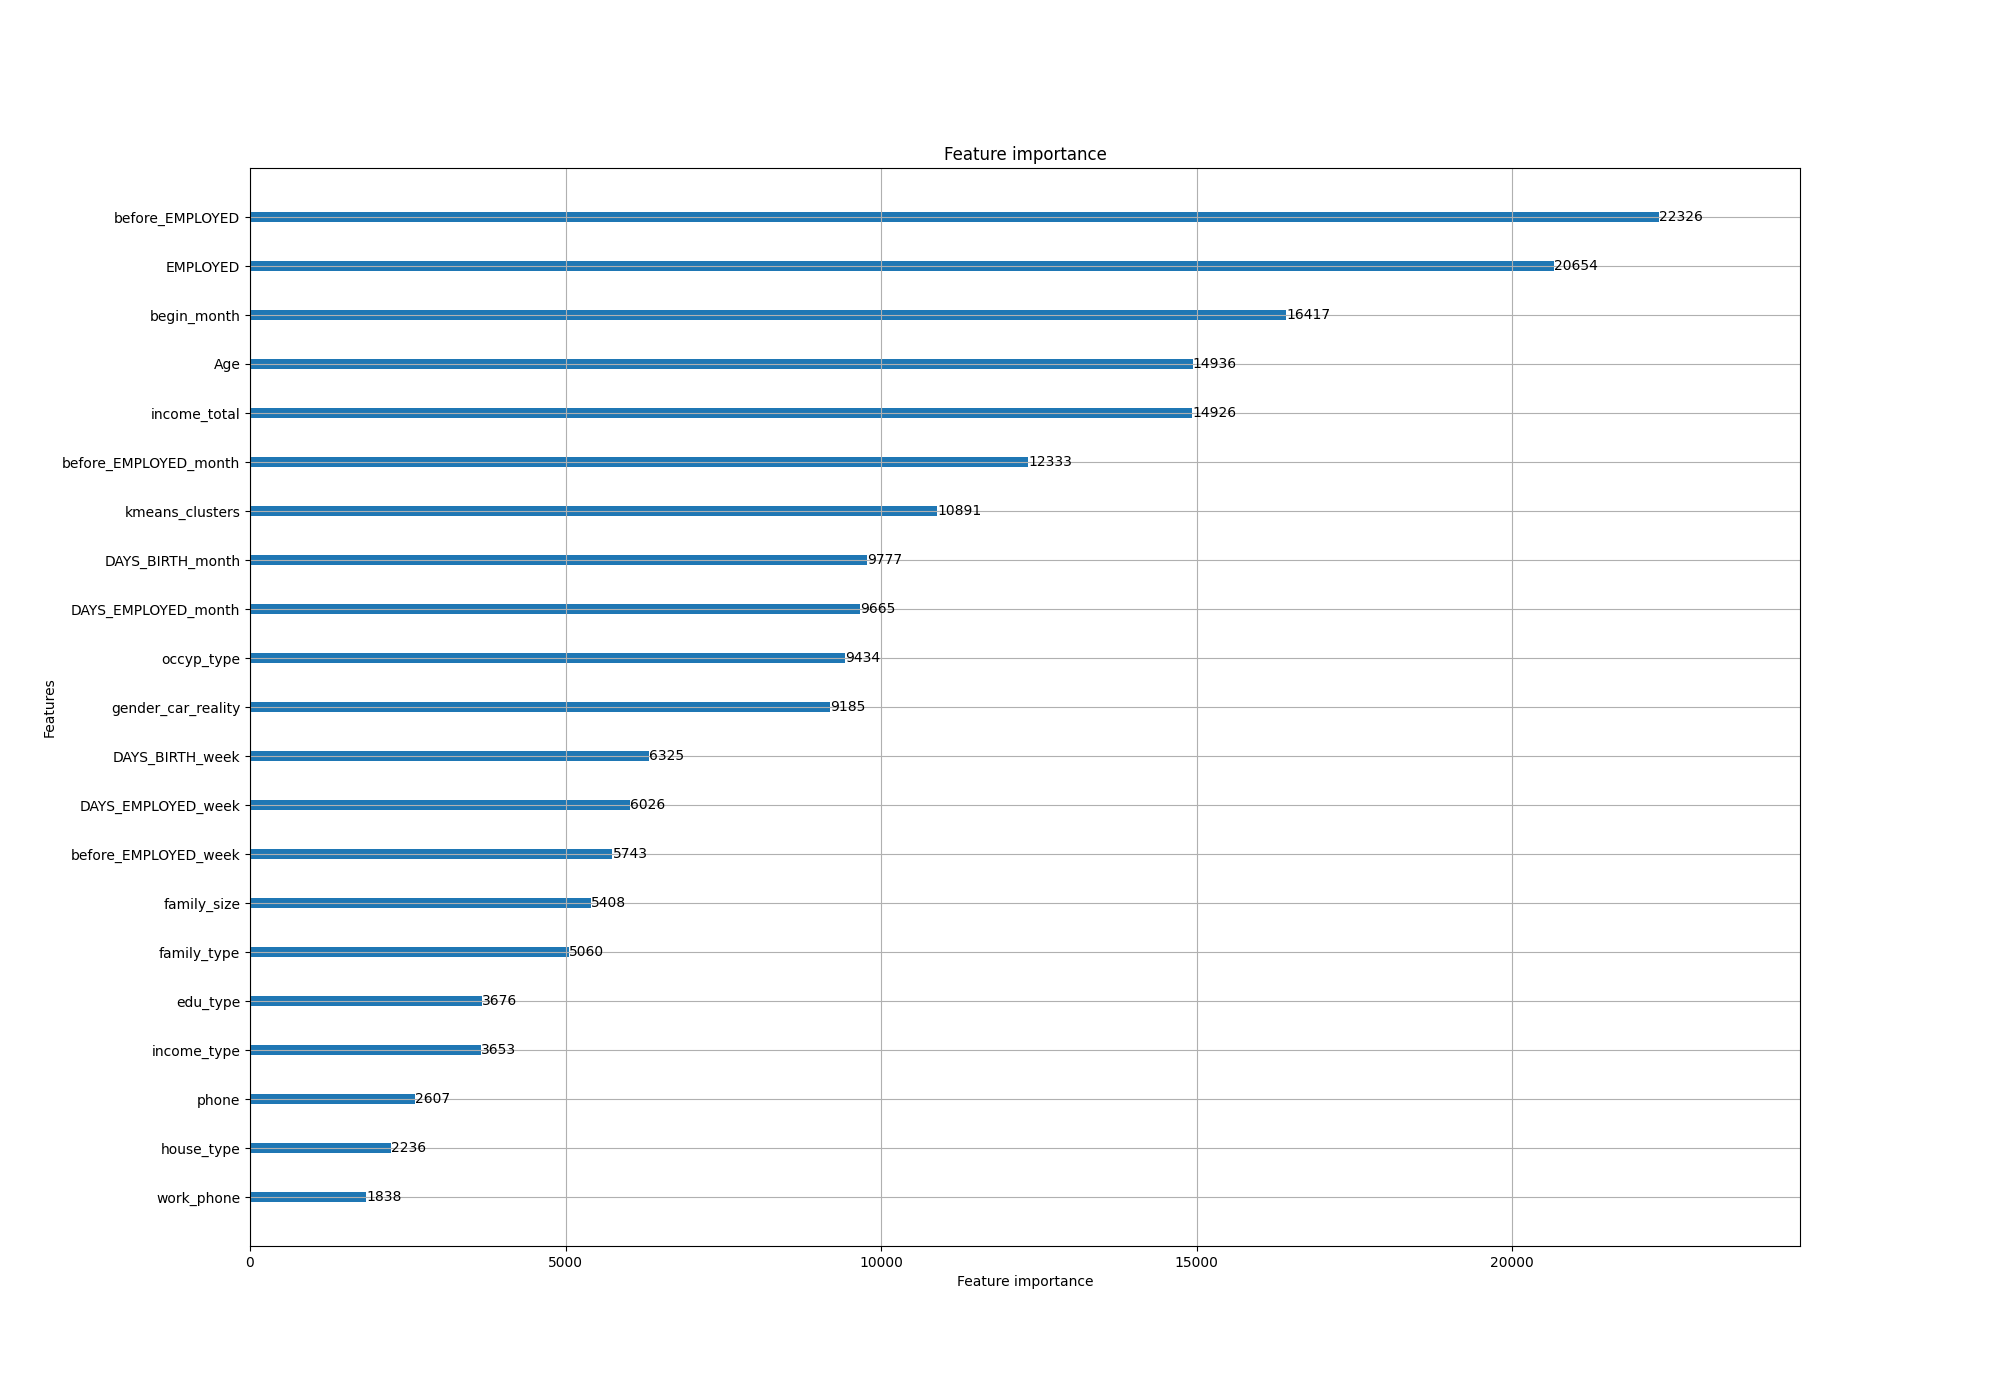
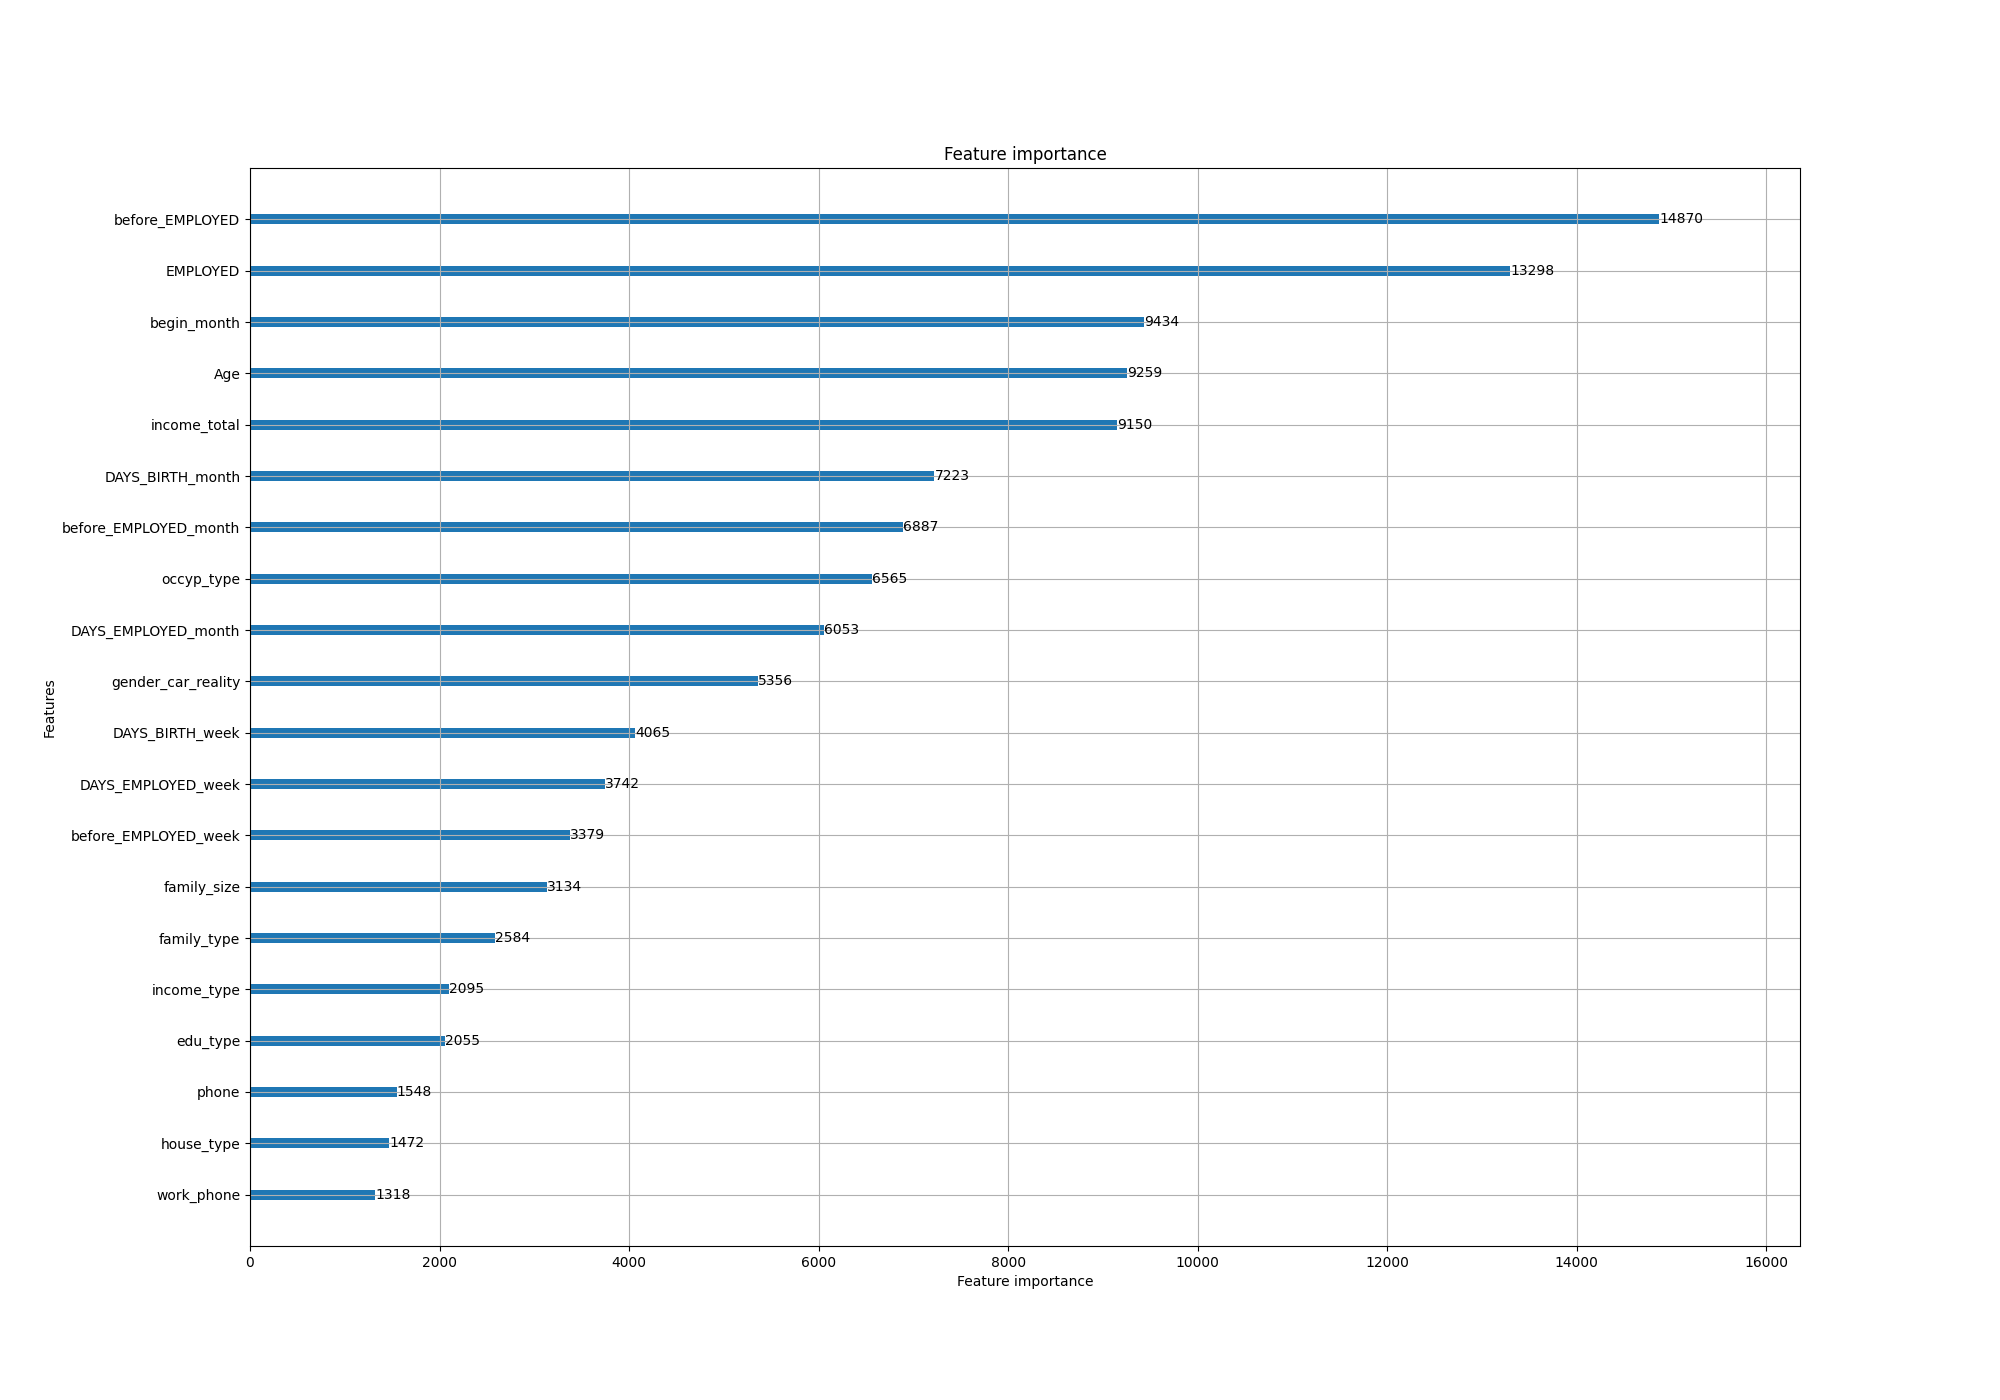
Update!

Changed region(s): [[0.031, 0.1536, 0.806, 0.86], [0.589, 0.8907, 0.62, 0.9214], [0.062, 0.1536, 0.093, 0.1843]]

diff --git a/src/PredictCreditCardDelinquency/xgb_train.py b/src/PredictCreditCardDelinquency/xgb_train.py
@@ -1,0 +1,29 @@
+import argparse
+
+import pandas as pd
+
+from data.dataset import load_dataset
+from model.gbdt import stratified_kfold_xgb
+
+train, test = load_dataset()
+X = train.drop("credit", axis=1)
+y = train["credit"]
+X_test = test.copy()
+
+
+if __name__ == "__main__":
+    path = "../../input/predict-credit-card-delinquency/"
+    parse = argparse.ArgumentParser("Training!")
+    parse.add_argument(
+        "--path", type=str, help="Input data save path", default="../../submission/"
+    )
+    parse.add_argument("--file", type=str, help="Input file name", default="model.csv")
+    parse.add_argument("--fold", type=int, default=10)
+    args = parse.parse_args()
+
+    rf_params = pd.read_pickle("../../parameters/best_feg_xgb_params.pkl")
+    rf_preds = stratified_kfold_xgb(rf_params, args.fold, X, y, X_test)
+
+    submission = pd.read_csv(path + "sample_submission.csv")
+    submission.iloc[:, 1:] = rf_preds
+    submission.to_csv(args.path + args.file, index=False)

diff --git a/README.md b/README.md
@@ -1,71 +1,41 @@
 # PredictCreditCardDelinquency
-신용카드 사용자 연체 예측 AI 경진대회
-## 데이터 변수 설명
+[![Code style: black](https://img.shields.io/badge/code%20style-black-000000.svg)](https://github.com/psf/black)
+[신용카드 사용자 연체 예측 AI 경진대회](https://dacon.io/competitions/official/235713/overview/description)
 
-+ index
-+ gender: 성별
-+ car: 차량 소유 여부
-+ reality: 부동산 소유 여부
-+ child_num: 자녀 수
-+ income_total: 연간 소득
-+ income_type: 소득 분류
-
-        ['Commercial associate', 'Working', 'State servant', 'Pensioner', 'Student']
-+ edu_type: 교육 수준
-
-        ['Higher education', 'Secondary / secondary special', 'Incomplete higher', 'Lower secondary', 'Academic degree']
-
-+ family_type: 결혼 여부
-
-
-		['Married', 'Civil marriage', 'Separated', 'Single / not married', 'Widow']
-
-
-+ house_type: 생활 방식
+## Feature Engineering
++ income_type: 기본 변수
++ edu_type: 기본 변수
++ family_type: 기본 변수
++ house_type: 기본 변수
++ occyp_type: 기본 변수
++ begin_month: 중복 데이터를 구별할 수 있는 핵심 변수
++ DAYS_BIRTH_month: DAYS_BIRTH의 달
++ DAYS_BIRTH_week: DAYS_BIRTH의 주
++ Age: DAYS_BIRTH의 년도
++ DAYS_EMPLOYED_month: DAYS_EMPLOYED의 달
++ DAYS_EMPLOYED_week: DAYS_EMPLOYED의 주
++ EMPLOYED: DAYS_EMPLOYED의 년
++ before_EMPLOYED: DAYS_BIRTH와 DAYS_EMPLOYED의 차
++ before_EMPLOYED_month: 고용되기 전의 달
++ before_EMPLOYED_week: 고용 되기 전의 주
++ gender_car_reality: 성별, 차, 부동산 변수를 합침
 
 
-		['Municipal apartment', 'House / apartment', 'With parents', 'Co-op apartment', 'Rented apartment', 'Office apartment']
+### Model
++ category feature의 전처리가 필수적으로 중요
++ CatBoost를 활용하여 category feature들을 지정하여 모델의 성능을 높힘
++ LightGBM, XGBoost와 비교 후 더 나은 성능을 보임
 
-
-
-+ DAYS_BIRTH: 출생일
-
-                            
-        데이터 수집 당시 (0)부터 역으로 셈, 즉, -1은 데이터 수집일 하루 전에 태어났음을 의미
-
-
-
-+ DAYS_EMPLOYED: 업무 시작일
-
-
-		데이터 수집 당시 (0)부터 역으로 셈, 즉, -1은 데이터 수집일 하루 전부터 일을 시작함을 의미 양수 값은 고용되지 않은 상태를 의미함
-
-+ FLAG_MOBIL: 핸드폰 소유 여부
-
-+ work_phone: 업무용 전화 소유 여부
-
-+ phone: 전화 소유 여부
-
-+ email: 이메일 소유 여부
-
-+ occyp_type: 직업 유형	
-
-+ family_size: 가족 규모
-
-+ begin_month: 신용카드 발급 월
-			
-
-		데이터 수집 당시 (0)부터 역으로 셈, 즉, -1은 데이터 수집일 한 달 전에 신용카드를 발급함을 의미
-
-+ credit: 사용자의 신용카드 대금 연체를 기준의 신용도
-
-
-		=> 낮을 수록 높은 신용의 신용카드 사용자를 의미함
-### Feature Engineering
-
-### 모델
-+ LightGBM
-+ CatBoost
 
 ## Cross Validation 전략
-- Stratified K-Fold
++ Stratified K-Fold: 다중 분류문제에서 자주 쓰이는 기법 labeling의 sample을 잘 맞춰서 학습을 진행하도록 함
++ 10-fold로 진행하여 성능을 높힘
+
+
+## Benchmark
+|model|OOF(10-fold)|Public LB|Private LB|
+|------|:------:|:---------:|:-------:|:--------:|
+|LightGBM|0.68714|0.68674|-|
+|XGBoost|-|-|-|
+|RandomForest|-|-|-|
+|**CatBoost**|**0.67363**|**0.67364**|-|
